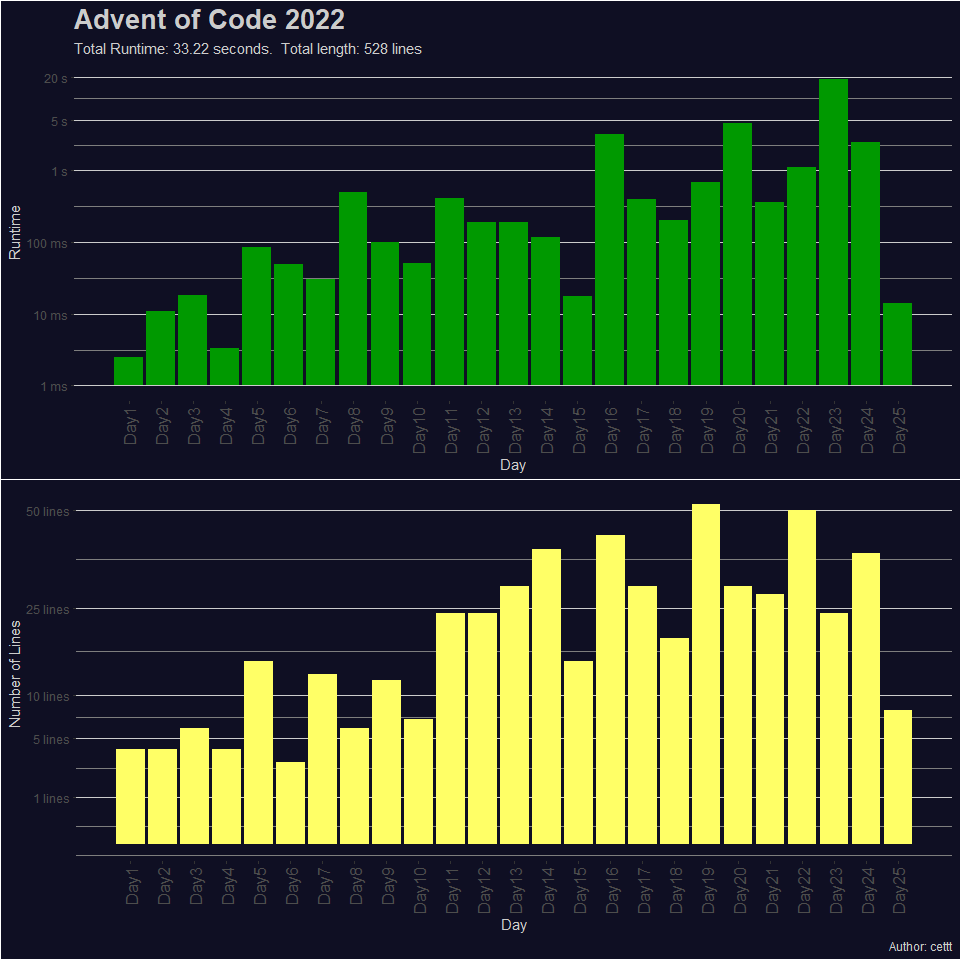
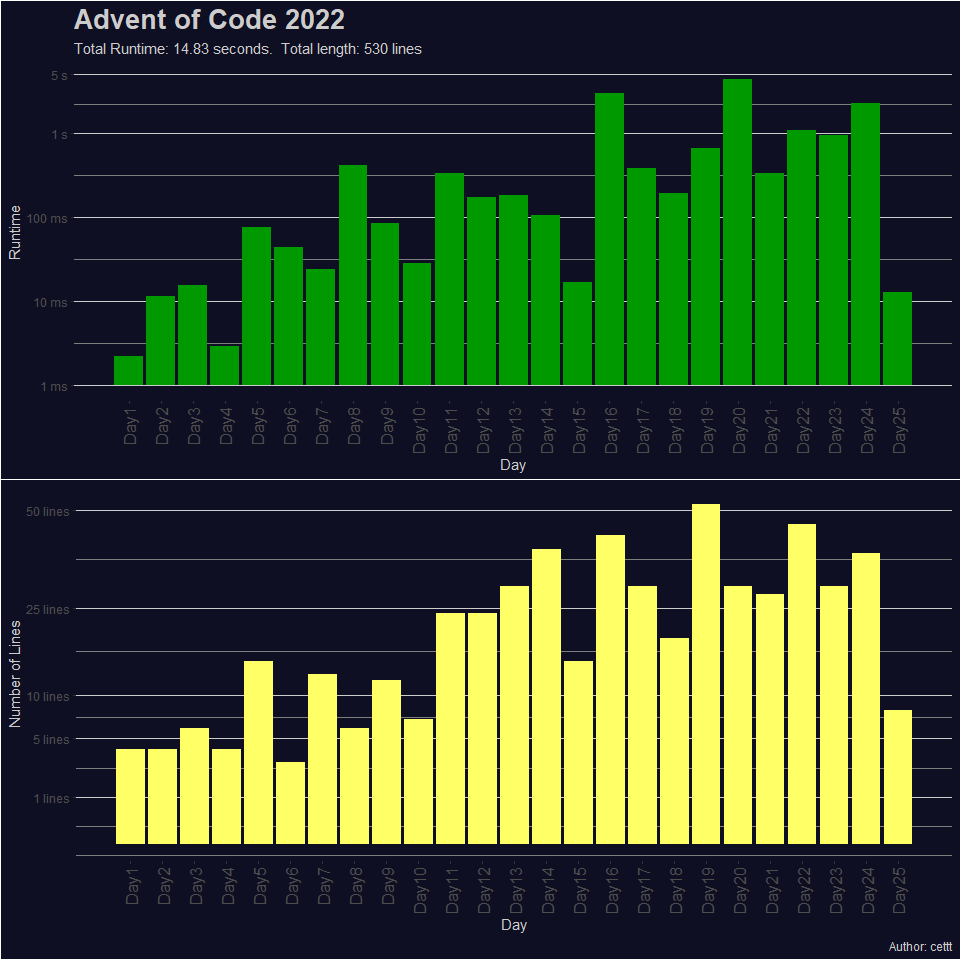
Clean solution for Day23

diff --git a/README.md b/README.md
@@ -13,8 +13,6 @@ require base packages. For Day 12 I used the
 library which provides high performance container types (in particular
 priority queues).
 
-Some solutions are still not optimal, especially Day 23 (long run time).
-
 I try to go for fast and short solutions which means that the resulting
 code is not always as easy to read as it could be.
 
